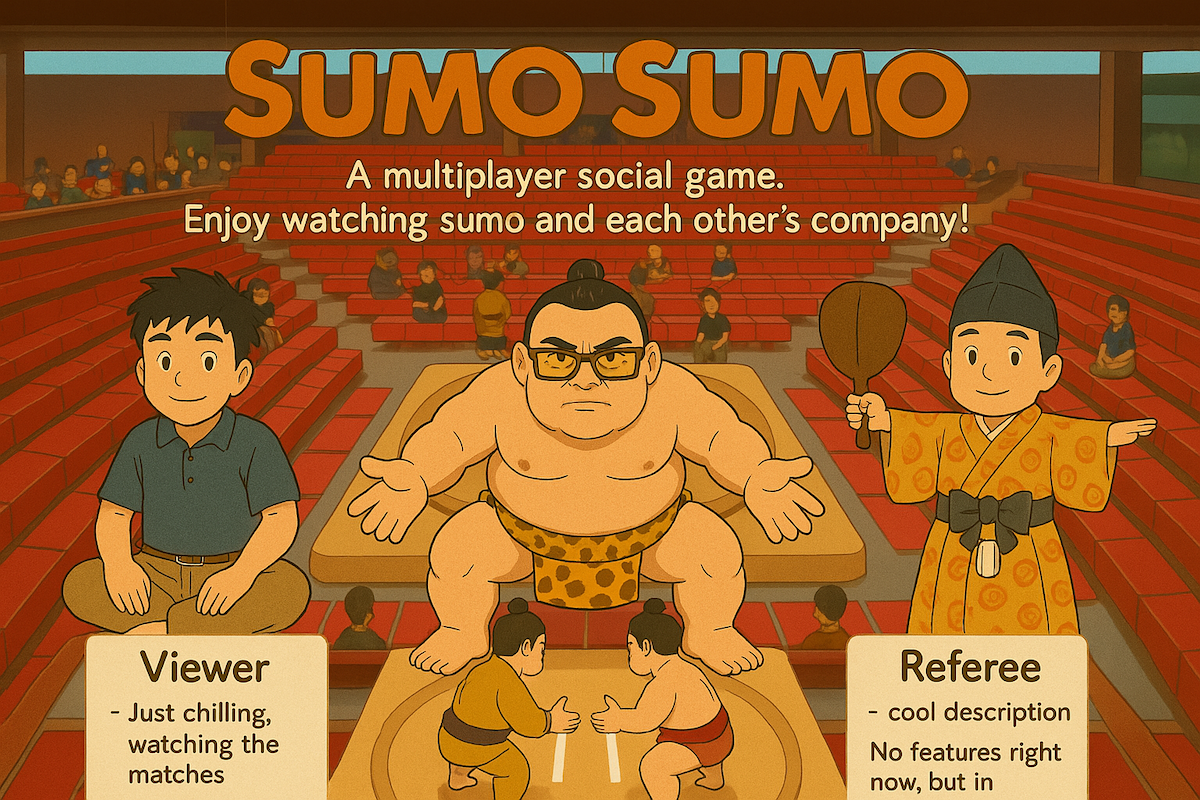
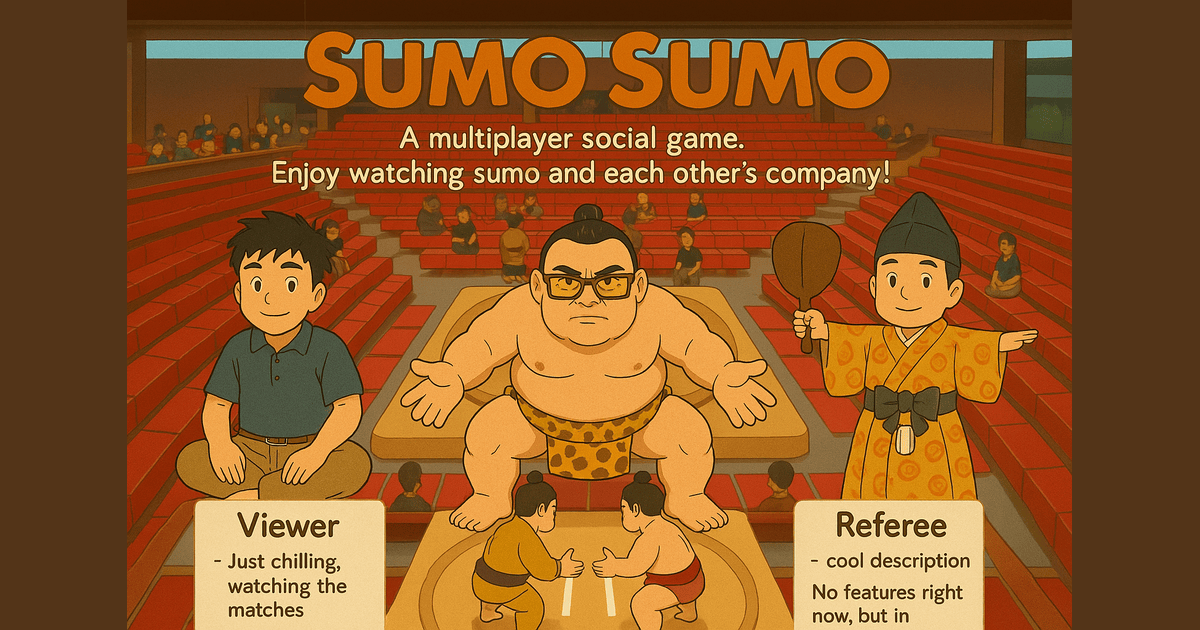
better thumbnail

diff --git a/index.html b/index.html
@@ -16,7 +16,7 @@
       content="https://playsumosumo.com/thumbnail.png"
     />
     <meta property="og:image:width" content="1200" />
-    <meta property="og:image:height" content="800" />
+    <meta property="og:image:height" content="630" />
     <meta property="og:type" content="website" />
     <meta property="og:url" content="https://playsumosumo.com" />
 
